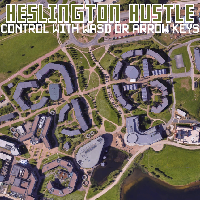
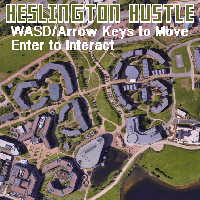
Change to menu.png text and attempted to implement end screen(not working yet).

Changed region(s): [[0.0, 0.12, 1.0, 0.27]]

diff --git a/core/src/com/mygdx/hustle/GameScreen.java b/core/src/com/mygdx/hustle/GameScreen.java
@@ -1,7 +1,6 @@
 package com.mygdx.hustle;
 
 import com.badlogic.gdx.*;
-import com.badlogic.gdx.graphics.Camera;
 import com.badlogic.gdx.graphics.OrthographicCamera;
 import com.badlogic.gdx.graphics.Texture;
 import com.badlogic.gdx.graphics.g2d.BitmapFont;
@@ -9,14 +8,13 @@ import com.badlogic.gdx.graphics.g2d.SpriteBatch;
 import com.badlogic.gdx.graphics.glutils.ShapeRenderer;
 import com.badlogic.gdx.utils.ScreenUtils;
 import com.badlogic.gdx.utils.viewport.ExtendViewport;
-import com.badlogic.gdx.utils.viewport.Viewport;
 
 //import java.util.concurrent.TimeUnit;
 
 public class GameScreen implements Screen {
     private final HeslingtonHustle parent;
-    private final Viewport viewport;
-    private final Camera camera;
+    private final ExtendViewport viewport;
+    private final OrthographicCamera camera;
 
     SpriteBatch batch;
 
@@ -78,7 +76,7 @@ public class GameScreen implements Screen {
 
         //////////////////////////////END OF DAY//////////////////////////////////////////////////
 
-        dayTimer.update(Gdx.graphics.getDeltaTime(), energy);
+        dayTimer.update(Gdx.graphics.getDeltaTime(), energy, parent, viewport, camera, score);
         dayTimer.renderDayNumber(); // Render the day number above the energy bar
 
[1 lines of base64/hex data omitted]

diff --git a/core/src/com/mygdx/hustle/EndScreen.java b/core/src/com/mygdx/hustle/EndScreen.java
@@ -1,0 +1,61 @@
+package com.mygdx.hustle;
+
+import com.badlogic.gdx.Gdx;
+import com.badlogic.gdx.Screen;
+import com.badlogic.gdx.graphics.Camera;
+import com.badlogic.gdx.graphics.GL20;
+import com.badlogic.gdx.graphics.OrthographicCamera;
+import com.badlogic.gdx.graphics.g2d.BitmapFont;
+import com.badlogic.gdx.graphics.g2d.SpriteBatch;
+import com.badlogic.gdx.utils.viewport.ExtendViewport;
+import com.badlogic.gdx.utils.viewport.Viewport;
+
+public class EndScreen implements Screen {
+    private final HeslingtonHustle parent;
+    private final Viewport viewport;
+    private final Camera camera;
+    private final Score score;
+
+    public EndScreen(HeslingtonHustle heslingtonHustle, ExtendViewport view, OrthographicCamera cam, Score scor) {
+        parent = heslingtonHustle;
+        viewport=view;
+        camera=cam;
+        score=scor;
+    }
+
+    @Override
+    public void show() {
+        Gdx.gl.glClear(GL20.GL_COLOR_BUFFER_BIT);
+        score.renderFinalScores();
+    }
+
+    @Override
+    public void render(float delta) {
+
+    }
+
+    @Override
+    public void resize(int width, int height) {
+
+    }
+
+    @Override
+    public void pause() {
+
+    }
+
+    @Override
+    public void resume() {
+
+    }
+
+    @Override
+    public void hide() {
+
+    }
+
+    @Override
+    public void dispose() {
+
+    }
+}

diff --git a/core/src/com/mygdx/hustle/DayTimer.java b/core/src/com/mygdx/hustle/DayTimer.java
@@ -1,6 +1,8 @@
 package com.mygdx.hustle;
+import com.badlogic.gdx.graphics.OrthographicCamera;
 import com.badlogic.gdx.graphics.g2d.BitmapFont;
 import com.badlogic.gdx.graphics.g2d.SpriteBatch;
+import com.badlogic.gdx.utils.viewport.ExtendViewport;
 
 public class DayTimer {
     private static final float DAY_DURATION = 60.0f; // Duration of a day in seconds
@@ -8,11 +10,10 @@ public class DayTimer {
     private int currentDay = 1; //start on day 1
     private SpriteBatch textBatch;
     private BitmapFont font;
-    private final Score score = new Score();
     private boolean endOfDay;
 
 
-    public void update(float deltaTime, Energy energy) {
+    public void update(float deltaTime, Energy energy, final HeslingtonHustle heslingtonHustle, final ExtendViewport view, final OrthographicCamera cam, final Score score) {
         endOfDay = false;
         // Increment elapsed time
         elapsedTime += deltaTime;
@@ -22,6 +23,11 @@ public class DayTimer {
             renderSleepReminder();
             energy.decrementEnergy(10000000);
             endOfDay = true;
+        }
+
+        //check if game is over
+        if (currentDay>7) {
+            heslingtonHustle.setScreen(new EndScreen(heslingtonHustle, view, cam, score));
         }
     }
 

diff --git a/core/src/com/mygdx/hustle/MenuScreen.java b/core/src/com/mygdx/hustle/MenuScreen.java
@@ -5,6 +5,7 @@ import com.badlogic.gdx.Screen;
 import com.badlogic.gdx.graphics.GL20;
 import com.badlogic.gdx.graphics.OrthographicCamera;
 import com.badlogic.gdx.graphics.Texture;
+import com.badlogic.gdx.graphics.g2d.Sprite;
 import com.badlogic.gdx.graphics.g2d.TextureRegion;
 import com.badlogic.gdx.scenes.scene2d.Stage;
 import com.badlogic.gdx.scenes.scene2d.Actor;
@@ -49,10 +50,11 @@ public class MenuScreen implements Screen {
 		TextButton exit = new TextButton("Exit",skin);
 
 		//put buttons into the table
+		table.row().pad(20,0,0,0);
 		table.add(newGame).fillX().width(200).height(50);
-		table.row().pad(40,0,40,0);
+		table.row().pad(20,0, 0,0);
 		table.add(preferences).fillX().width(200).height(50);
-		table.row();
+		table.row().pad(20,0, 0,0);
 		table.add(exit).fillX().width(200).height(50);
 
 		//final table edits
